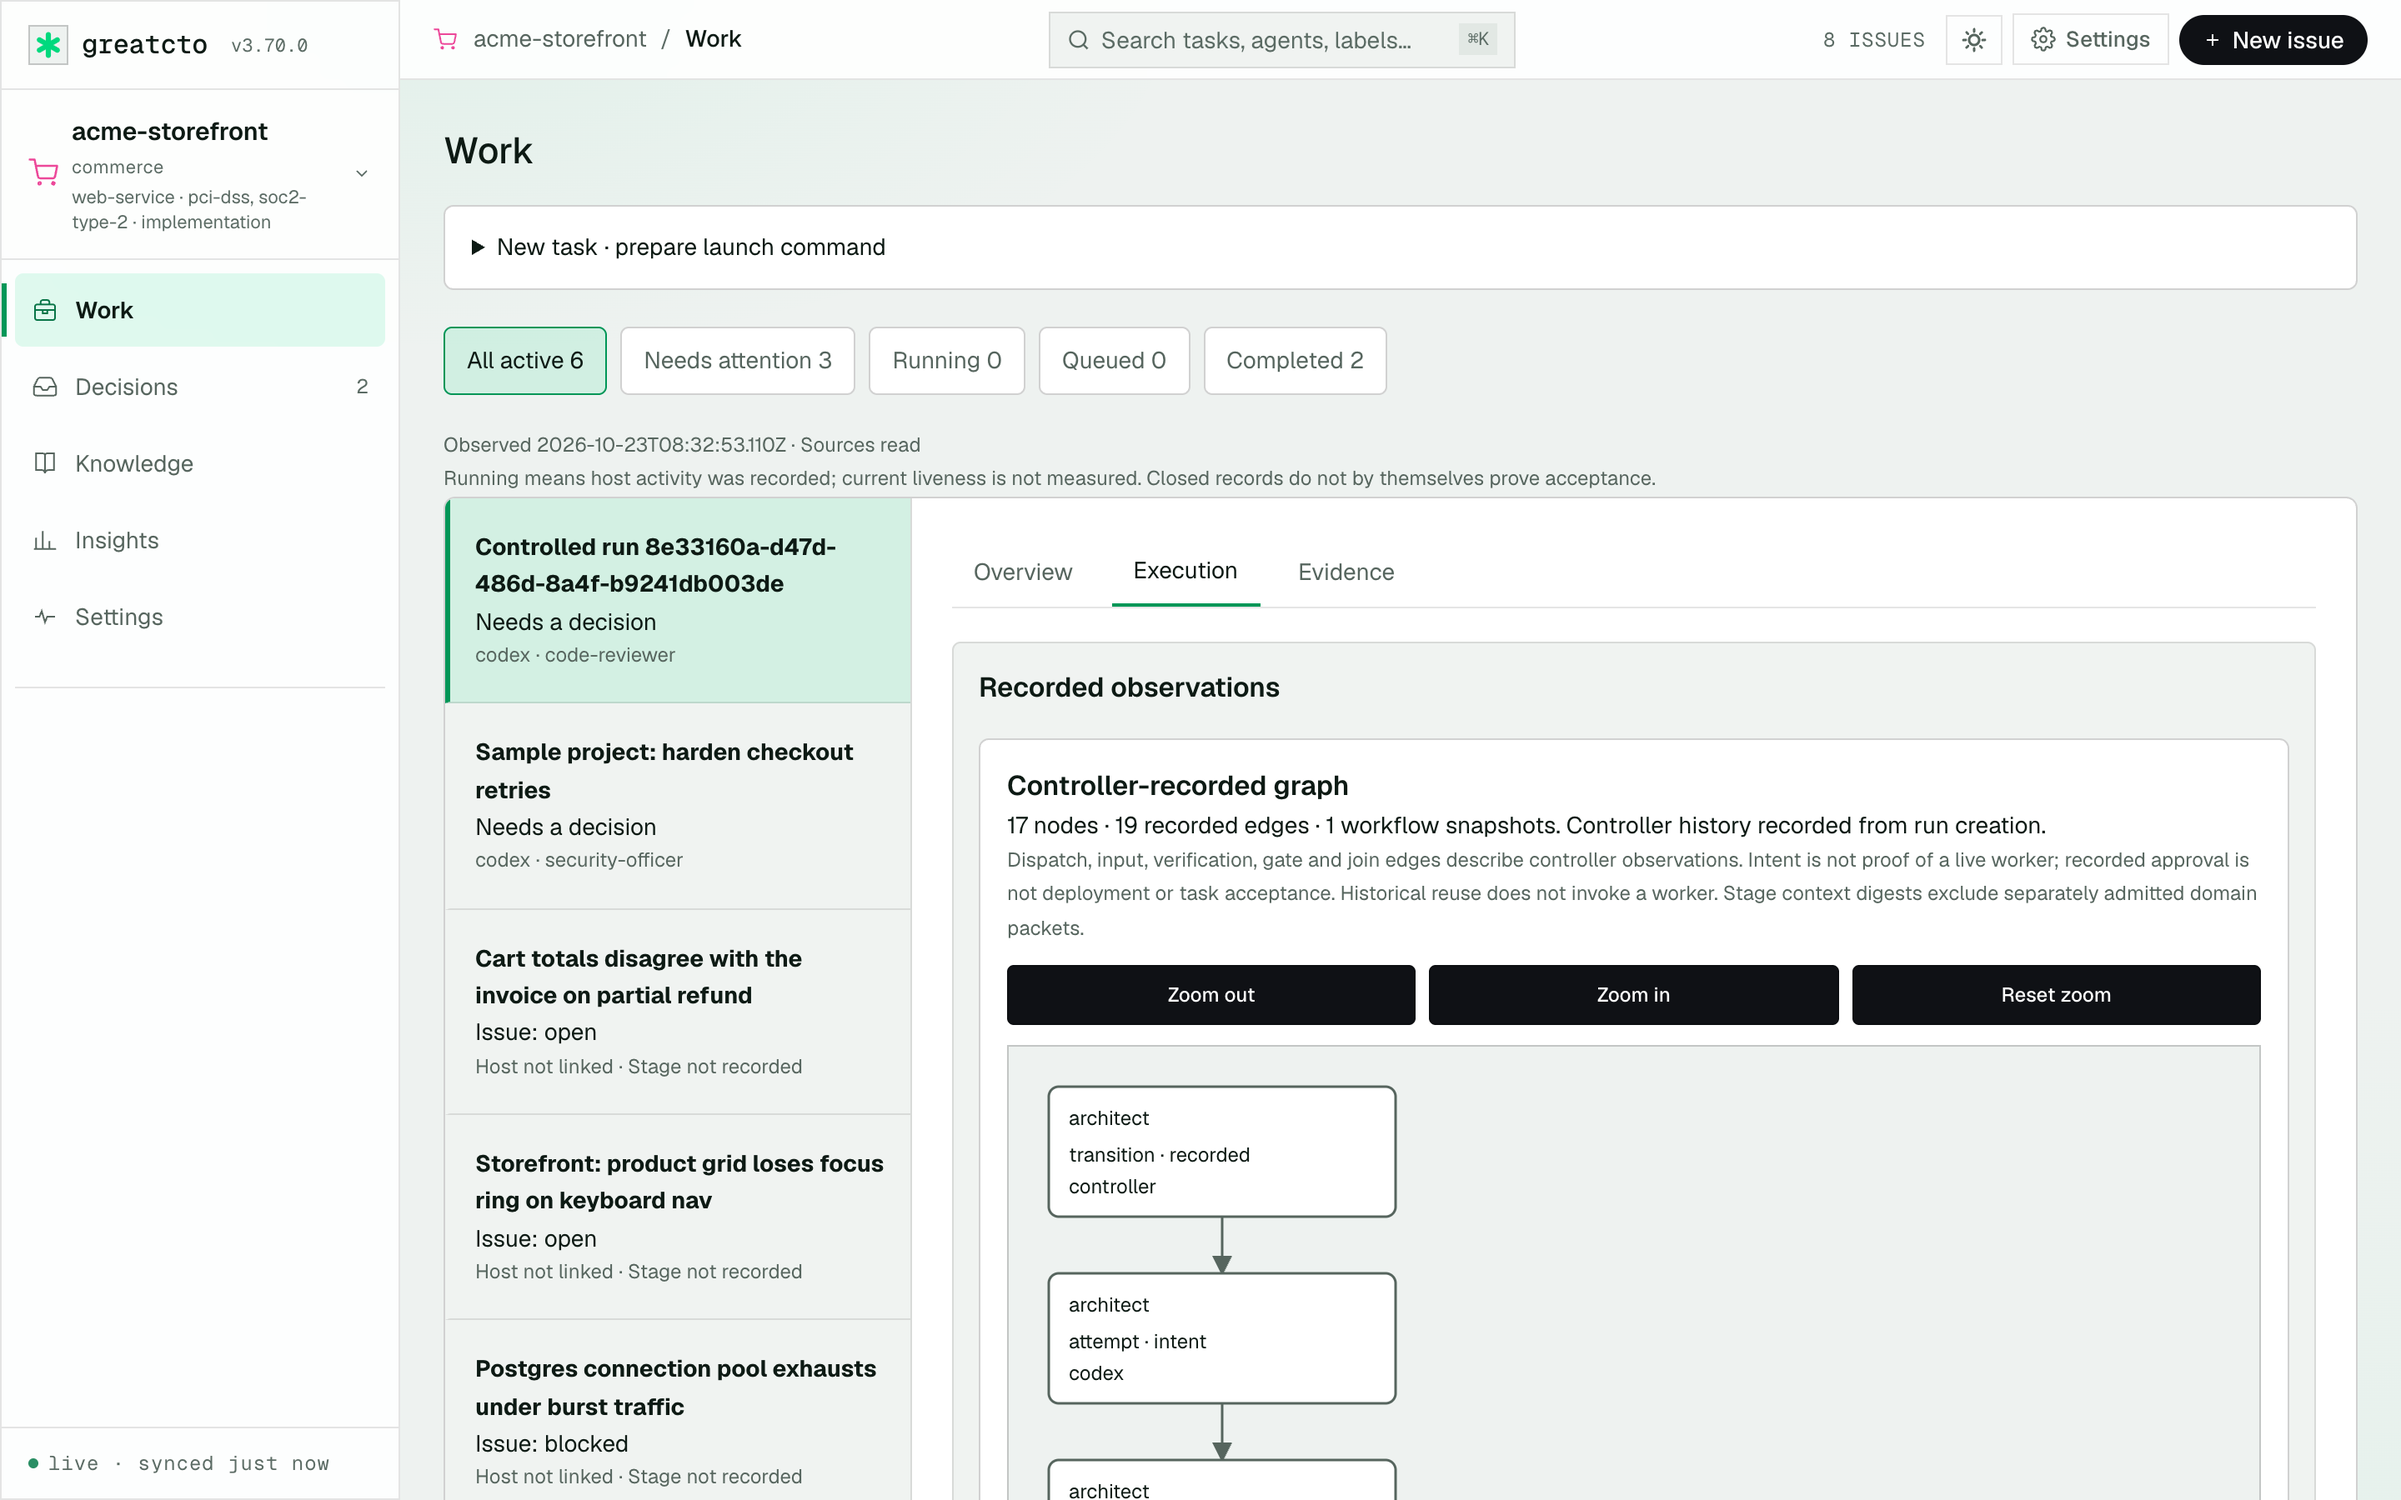
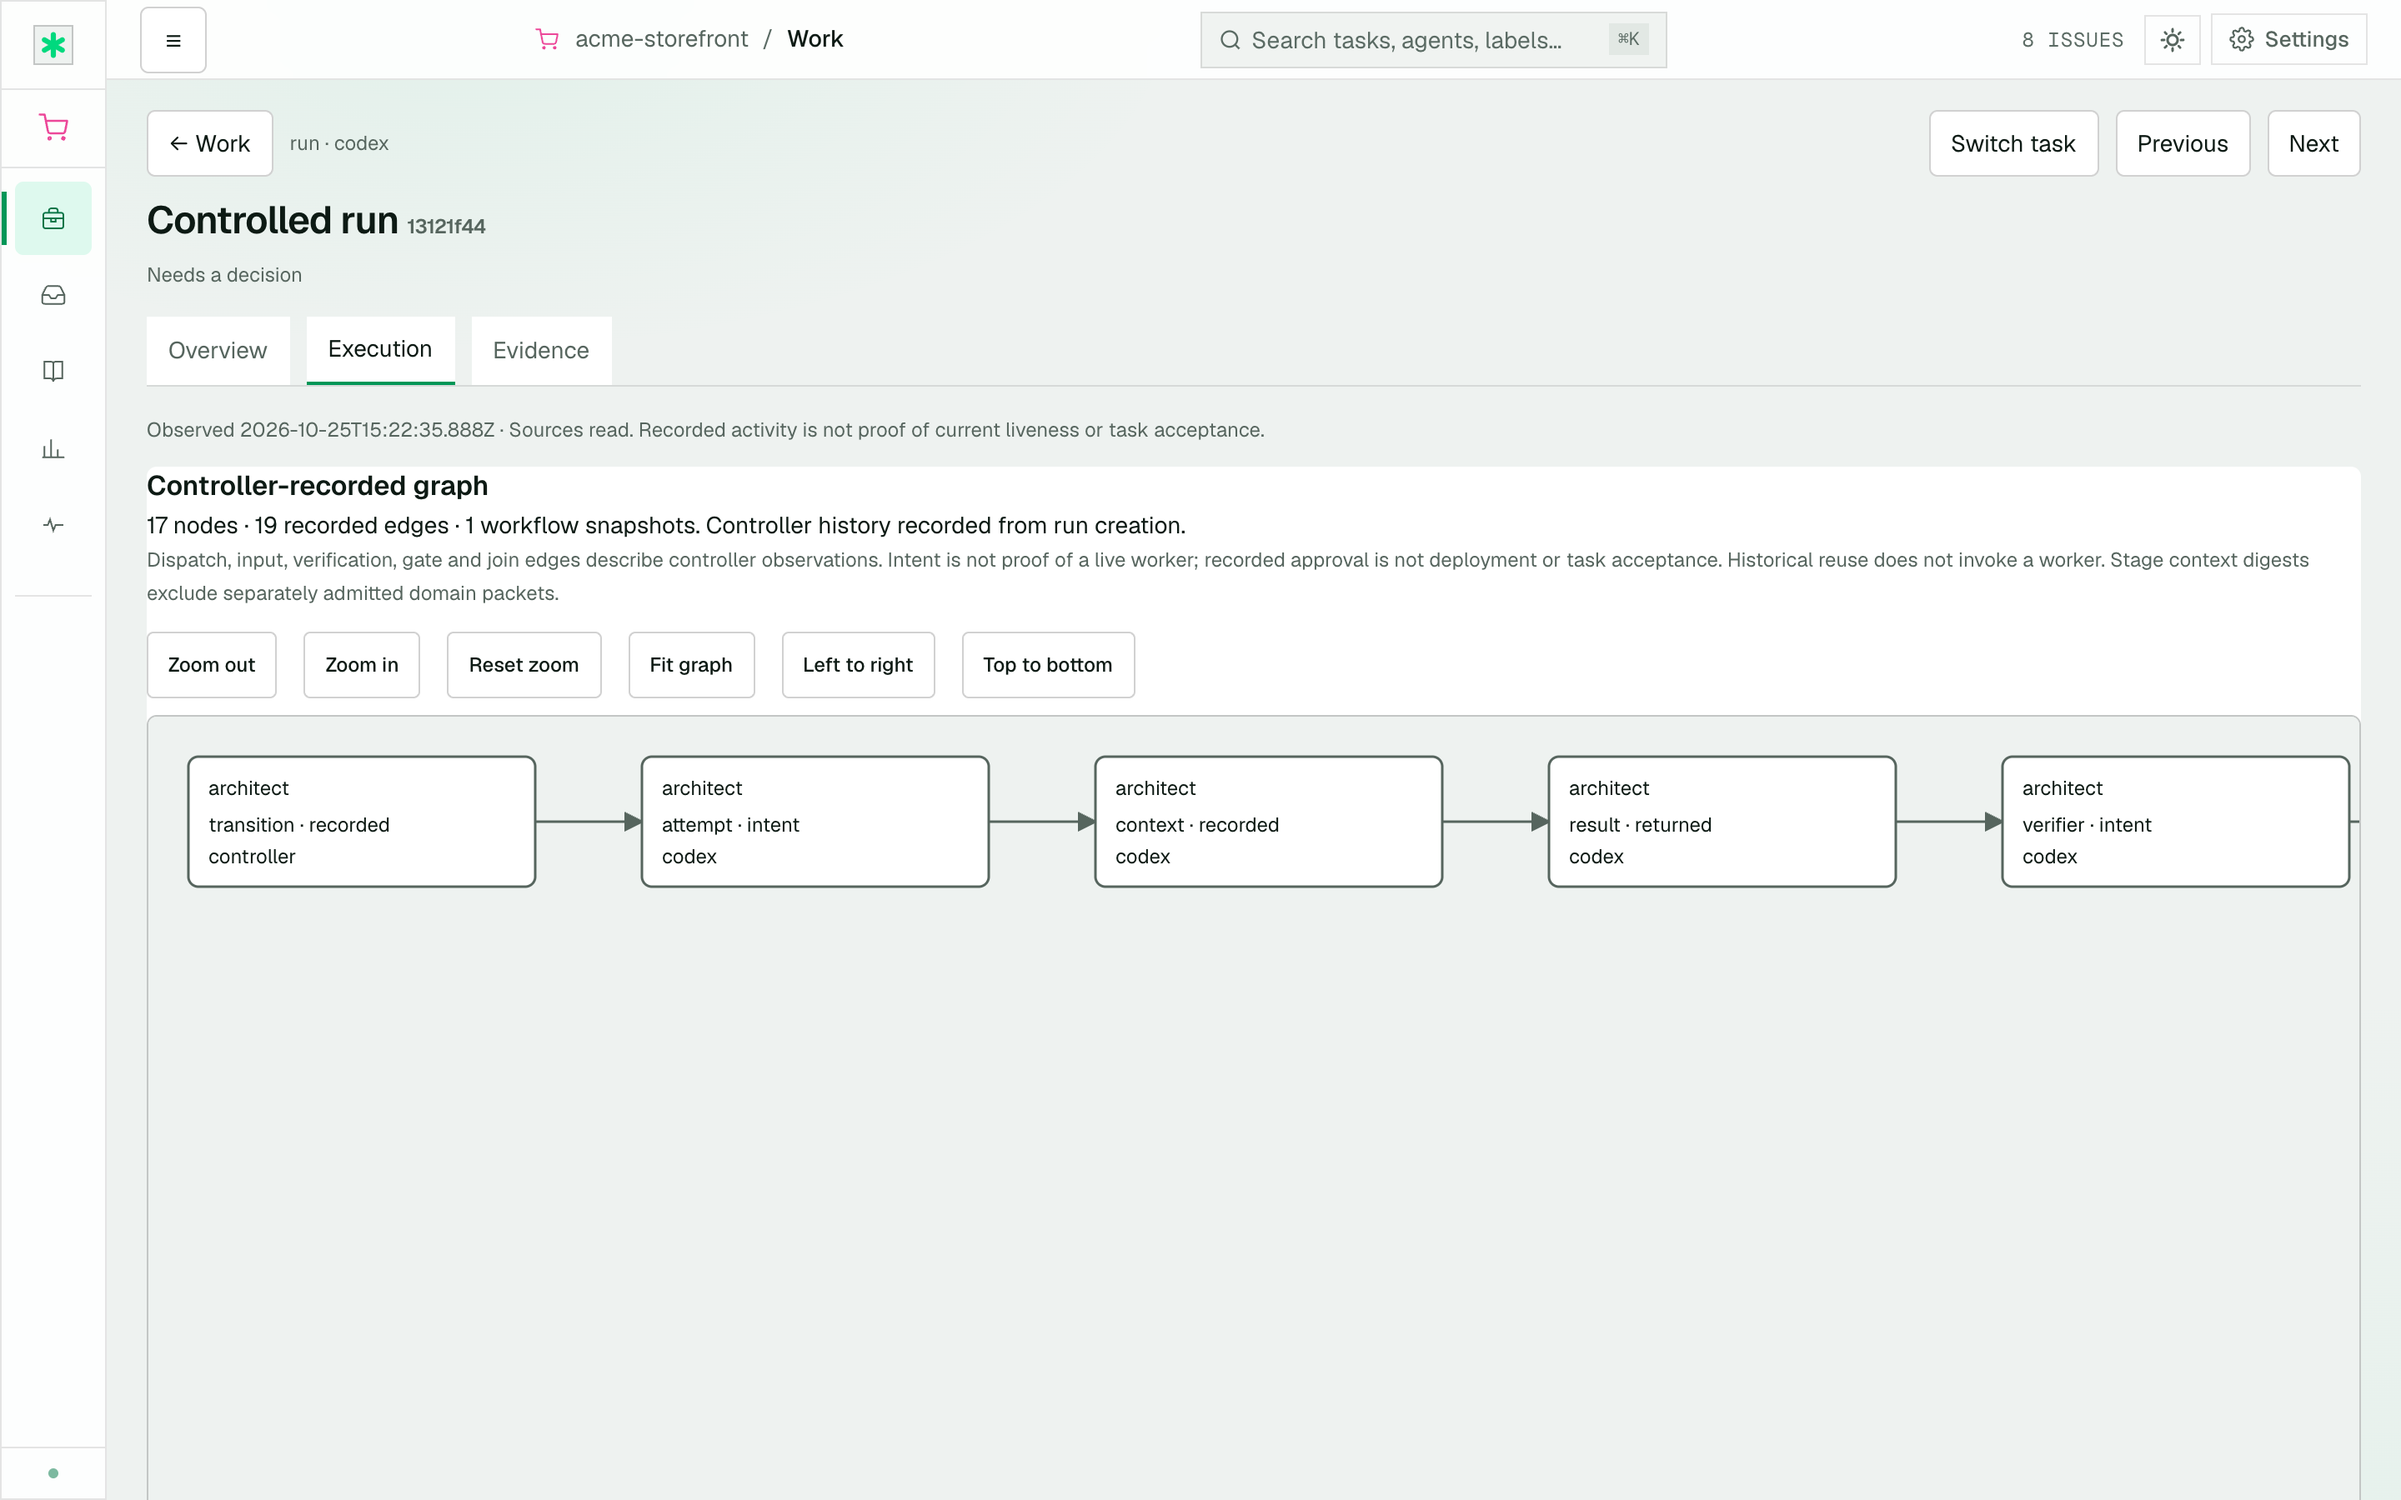
feat(v3.70.1): give recorded execution a focused task workspace

diff --git a/CHANGELOG.md b/CHANGELOG.md
@@ -56,6 +56,33 @@ All notable changes to great_cto are documented here.
 
 
 
+
+## v3.70.1 — 2026-10-25
+
+Work opens as a full-width list, and each task has its own workspace with a wide execution canvas. The public README and Blueprint landing describe the current controlled-run graphs, focused domains and responsibility contracts without claiming live-model completeness.
+
+### What's new
+
+- Canvas focus: compact 64px navigation in Execution, task switching, previous/next navigation, graph fit/zoom and horizontal or vertical layouts.
+- Read-only node inspector with keyboard focus restoration; recorded graph nodes and edges retain their existing meaning.
+- Project-bound task URLs, history and filter restoration; unavailable tasks never silently select another record.
+- Blueprint README and refreshed synthetic screenshots. No customer records or private project context are included.
+
+### Fixed
+
+- Close the mobile drawer on read-only Work navigation and clear the inspector when leaving Work.
+- Await stdout completion for large codex-pipeline list/status JSON responses instead of truncating them on immediate process exit.
+
+### Validation and limits
+
+The implementation candidate passed the full local gate with no executed failures, including 21 browser scenarios without skips. Independent source and security reviews approved the candidate. A fresh release gate is run on the combined release tree before publication. Fifteen live/opt-in checks remain NOT CHECKED; offline fixtures do not demonstrate live providers, complete native-session graphs, deployment success or a measured quality uplift. Domain packs remain opt-in. The release does not include the separate unreleased Kimi reviewer candidate.
+
+- _Add one bullet per shipped feature._
+- _Cite ADRs introduced (if any)._
+- _Mention test counts and opt-out flags._
+
+---
+
 ## v3.70.0 — 2026-10-23
 
 Controlled runs now retain their recorded causal execution history.

diff --git a/skills/codex-host/SKILL.md b/skills/codex-host/SKILL.md
@@ -17,8 +17,8 @@ transition.
 ## Preflight
 
 ```sh
-npx --yes great-cto@3.70.0 codex-host doctor
-npx --yes great-cto@3.70.0 codex-host list --dir /absolute/project
+npx --yes great-cto@3.70.1 codex-host doctor
+npx --yes great-cto@3.70.1 codex-host list --dir /absolute/project
 ```
 
 `doctor.state=blocked` means do not start. Docker may be unavailable when no
@@ -32,7 +32,7 @@ Policies must be operator-owned absolute files outside the worker project.
 Allowed paths are explicit controller write boundaries.
 
 ```sh
-npx --yes great-cto@3.70.0 codex-host start \
+npx --yes great-cto@3.70.1 codex-host start \
   --dir /absolute/project \
   --prompt "the requested outcome" \
   --allow src,tests,docs \
@@ -58,9 +58,9 @@ Then pass back the controller-issued token; never synthesize or persist one in a
 project file.
 
 ```sh
-npx --yes great-cto@3.70.0 codex-host approve RUN_UUID --token GATE_TOKEN
-npx --yes great-cto@3.70.0 codex-host approve-release RUN_UUID --token RELEASE_TOKEN
-npx --yes great-cto@3.70.0 codex-host resume RUN_UUID
+npx --yes great-cto@3.70.1 codex-host approve RUN_UUID --token GATE_TOKEN
+npx --yes great-cto@3.70.1 codex-host approve-release RUN_UUID --token RELEASE_TOKEN
+npx --yes great-cto@3.70.1 codex-host resume RUN_UUID
 ```
 
 Use `recover` only after inspecting the recorded reason. Recovery reuses the

diff --git a/docs/HOST-CODEX.md b/docs/HOST-CODEX.md
@@ -16,14 +16,14 @@ Run through the version-pinned npm entrypoint. Installing the Codex plugin does
 not add an executable to `PATH`:
 
 ```sh
-npx --yes great-cto@3.70.0 codex-host doctor
-npx --yes great-cto@3.70.0 codex-host start --dir /path/to/project --allow src,docs --prompt 'Implement the specified feature'
-npx --yes great-cto@3.70.0 codex-host status <run-uuid>
-npx --yes great-cto@3.70.0 codex-host approve <run-uuid> --token <pending-token>
-npx --yes great-cto@3.70.0 codex-host resume <run-uuid>
-npx --yes great-cto@3.70.0 codex-host recover <run-uuid>
-npx --yes great-cto@3.70.0 codex-host cancel <run-uuid>
-npx --yes great-cto@3.70.0 codex-host list --dir /path/to/project
+npx --yes great-cto@3.70.1 codex-host doctor
+npx --yes great-cto@3.70.1 codex-host start --dir /path/to/project --allow src,docs --prompt 'Implement the specified feature'
+npx --yes great-cto@3.70.1 codex-host status <run-uuid>
+npx --yes great-cto@3.70.1 codex-host approve <run-uuid> --token <pending-token>
+npx --yes great-cto@3.70.1 codex-host resume <run-uuid>
+npx --yes great-cto@3.70.1 codex-host recover <run-uuid>
+npx --yes great-cto@3.70.1 codex-host cancel <run-uuid>
+npx --yes great-cto@3.70.1 codex-host list --dir /path/to/project
 ```
 
 For a mixed run from a source checkout, assign roles at start. Unlisted roles
